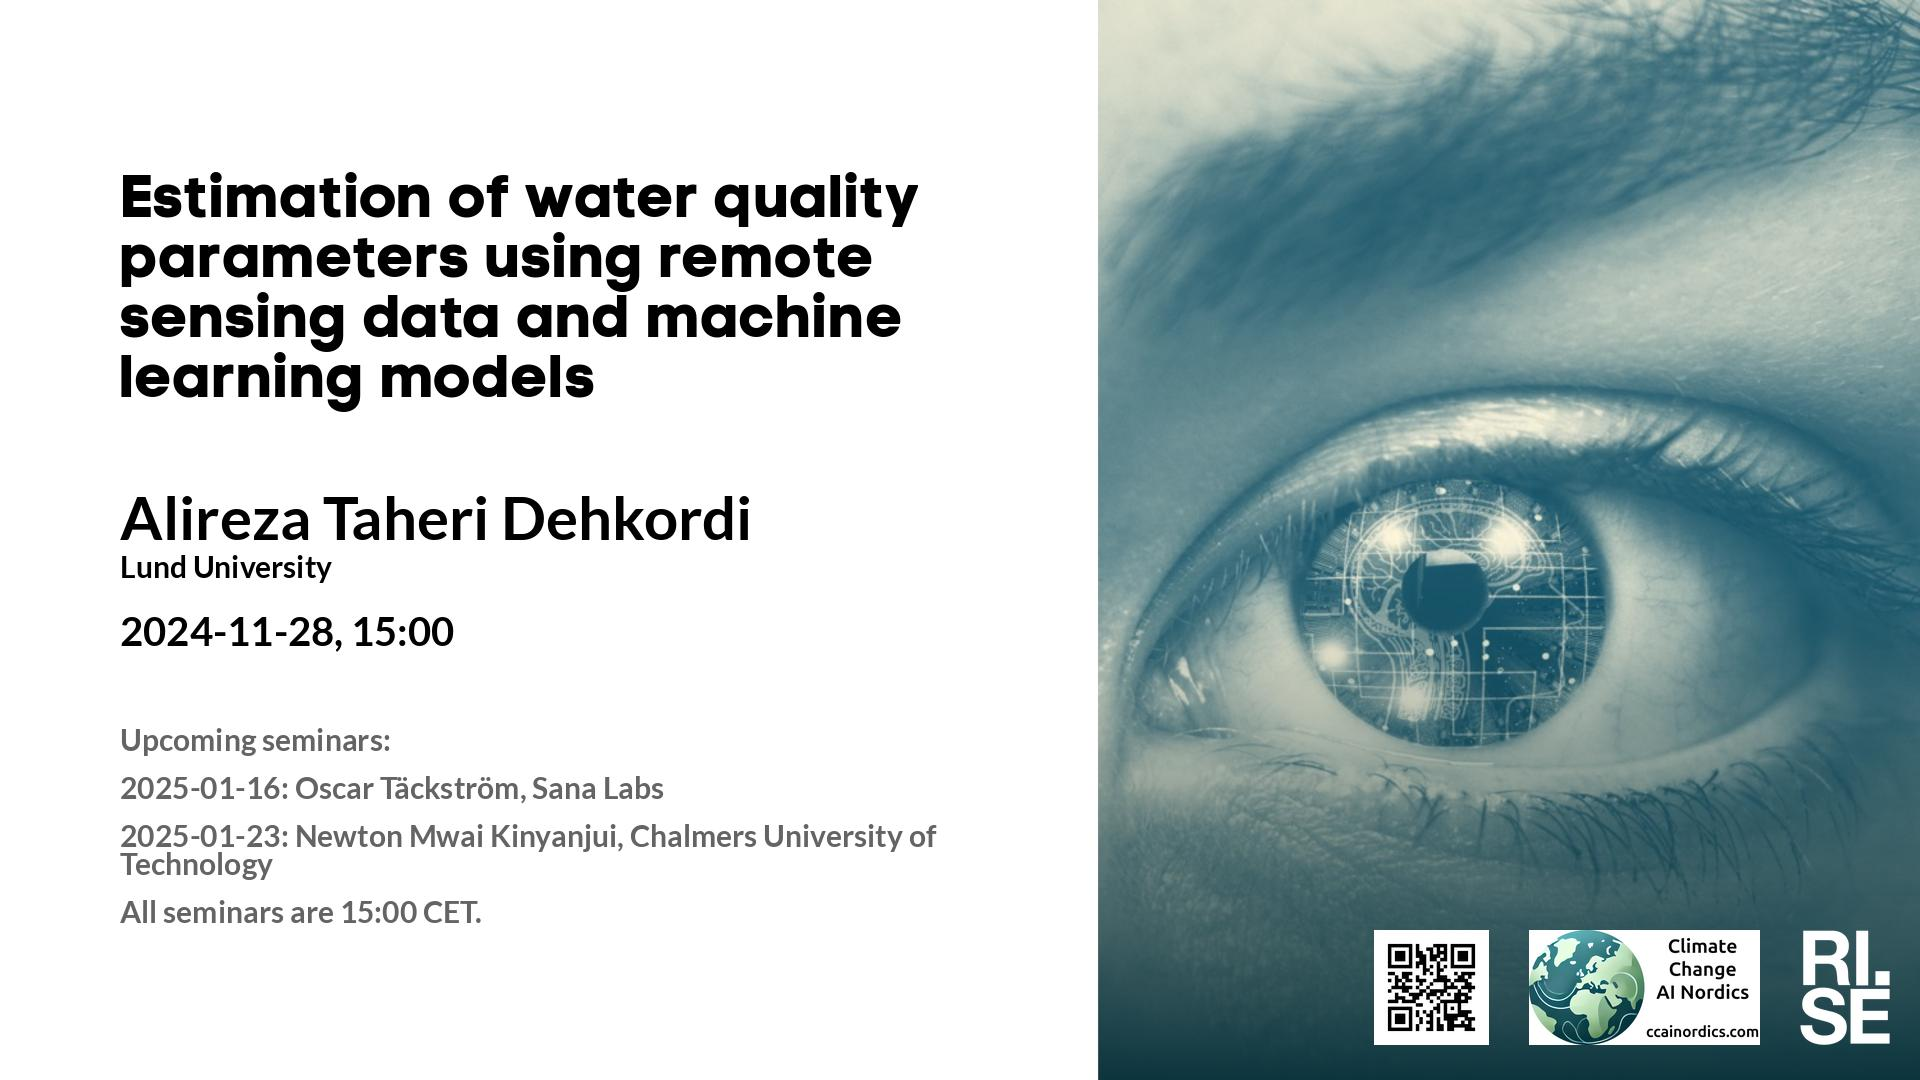
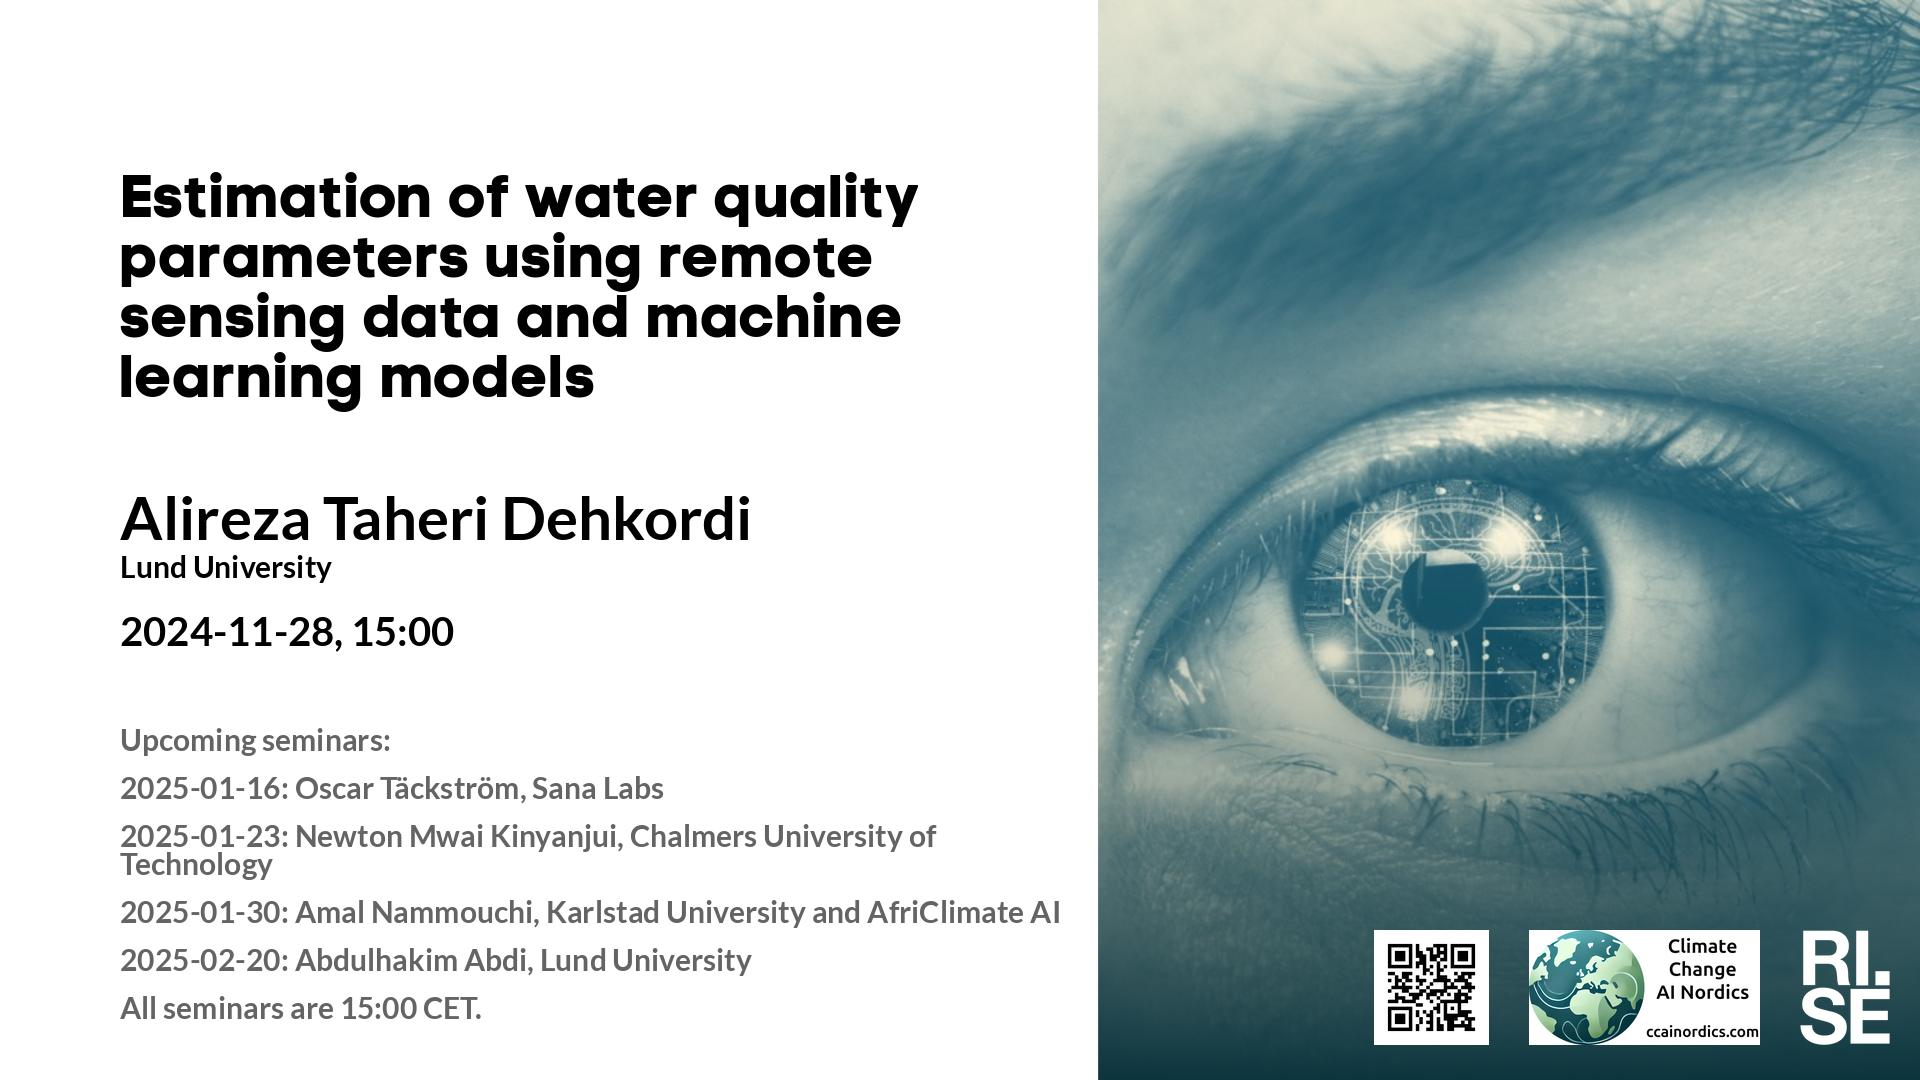
Updated plan on web site.

Changed region(s): [[0.0625, 0.825, 0.5625, 0.9472]]

diff --git a/lm/2024-11-28.md b/lm/2024-11-28.md
@@ -29,6 +29,8 @@ This seminar will have an in-person presence at the RISE office in Lund, located
 
 * 2025-01-16: Oscar Täckström, Sana Labs
 * 2025-01-23: Newton Mwai Kinyanjui, Chalmers University of Technology
+* 2025-01-30: Amal Nammouchi, Karlstad University and AfriClimate AI
+* 2025-02-20: Abdulhakim Abdi, Lund University
 * All seminars are 15:00 CET.
 
 More information and coming seminars: [https://ri.se/lm-sem](https://ri.se/lm-sem)
